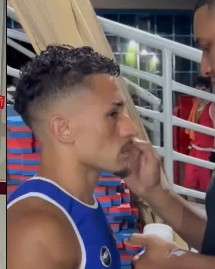
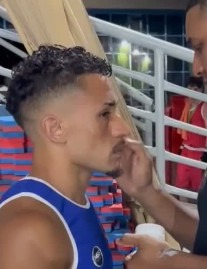
Perfil do atleta em card compacto com idade, categoria e Instagram

diff --git a/buffalo-site/index.html b/buffalo-site/index.html
@@ -64,12 +64,13 @@ a:focus-visible, button:focus-visible { outline: 2px solid var(--red-text); outl
 .brand { display: flex; align-items: center; gap: 12px; text-decoration: none; font-family: var(--font-display); font-size: 20px; letter-spacing: 1.5px; }
 .brand img { width: 48px; height: 48px; filter: grayscale(1); }
 .menu { display: flex; align-items: center; gap: 28px; font-size: 13px; font-weight: 700; letter-spacing: 1.5px; text-transform: uppercase; }
-.menu a { text-decoration: none; }
+.menu a { text-decoration: none; white-space: nowrap; }
+.brand { white-space: nowrap; }
 .menu a:not(.btn):hover { color: var(--red-text); }
 .menu .btn { min-height: 44px; padding: 0 18px; }
 .menu-toggle { display: none; background: none; border: 1px solid var(--paper); color: var(--paper); min-height: 44px; padding: 0 14px; font: 700 13px/1 var(--font-body); letter-spacing: 1.5px; text-transform: uppercase; cursor: pointer; }
 
-@media (max-width: 900px) {
+@media (max-width: 1100px) {
   .menu-toggle { display: inline-flex; align-items: center; }
   .menu { position: absolute; top: 100%; left: 0; right: 0; flex-direction: column; align-items: stretch; gap: 0; background: var(--ink); border-bottom: 1px solid var(--line); padding: 8px var(--gutter) 20px; }
   .menu a:not(.btn) { padding: 14px 0; border-bottom: 1px solid var(--line); }
@@ -182,10 +183,13 @@ a:focus-visible, button:focus-visible { outline: 2px solid var(--red-text); outl
 .slide-btn { width: 48px; height: 48px; display: inline-flex; align-items: center; justify-content: center; background: transparent; border: 1px solid currentColor; color: inherit; cursor: pointer; }
 .slide-btn:hover { background: var(--red); border-color: var(--red); color: #FFFFFF; }
 .slide-nav { display: flex; justify-content: flex-end; gap: 10px; margin-top: 28px; }
-.slide-nav.country-nav { display: none; }
+.dots { display: none; justify-content: center; gap: 4px; margin-top: 20px; }
+.dots button { width: 24px; height: 24px; padding: 0; border: 0; background: transparent; cursor: pointer; display: flex; align-items: center; justify-content: center; }
+.dots button::before { content: ""; width: 6px; height: 6px; border-radius: 3px; background: rgba(244,243,241,0.3); transition: width .3s, background .3s; }
+.dots button[aria-current="true"]::before { width: 20px; background: var(--paper); }
 @media (max-width: 700px) {
-  .slide-nav { justify-content: center; }
-  .slide-nav.country-nav { display: flex; }
+  .slide-nav { display: none; }
+  .dots { display: flex; }
   .coach-nav { left: var(--gutter); right: auto; }
 }
 .coach-photo { flex: 1 1 480px; min-height: clamp(420px, 72vh, 680px); position: relative; overflow: hidden; background: #CFCCC8; }
@@ -257,20 +261,28 @@ html:has(dialog[open]) { overflow: hidden; }
   .modal-prev { left: calc(50% - 58px); }
   .modal-next { right: calc(50% - 58px); }
 }
-.athlete-panel { width: min(880px, calc(100% - 32px)); max-height: calc(100% - 112px); overflow: auto; display: grid; grid-template-columns: minmax(0, 1fr) minmax(0, 1.1fr); background: var(--ink-2); border: 1px solid var(--line); }
-.ap-photo { position: relative; overflow: hidden; background: var(--ink); aspect-ratio: 4 / 5; container-type: size; }
-.ap-video { position: absolute; top: 50%; left: 50%; width: max(100cqw, 56.25cqh); height: max(100cqh, 177.78cqw); transform: translate(-50%, -50%); border: 0; filter: grayscale(1) contrast(1.1); pointer-events: none; }
-.ap-photo img { position: absolute; inset: 0; width: 100%; height: 100%; object-fit: cover; }
-.ap-body { padding: clamp(24px, 4vw, 44px); display: flex; flex-direction: column; justify-content: center; gap: 10px; min-width: 0; }
-.ap-body h3 { margin: 0; font-family: var(--font-display); font-weight: 400; font-size: clamp(40px, 5vw, 64px); line-height: 0.95; text-transform: uppercase; }
-.ap-body .cat { font-size: 15px; color: var(--muted); }
-.ap-titles { list-style: none; margin: 8px 0 0; padding: 0; display: flex; flex-direction: column; gap: 6px; }
+.athlete-panel { position: relative; width: min(460px, calc(100% - 32px)); max-height: calc(100% - 32px); overflow: auto; padding: 28px; display: flex; flex-direction: column; gap: 20px; background: var(--ink-2); border: 1px solid var(--line); }
+#athleteModal .modal-prev, #athleteModal .modal-next { display: none; }
+#athleteModal .modal-close { position: absolute; top: 10px; right: 10px; width: 40px; height: 40px; background: transparent; border-color: transparent; }
+#athleteModal .modal-close:hover { background: var(--red); }
+.ap-head { display: flex; align-items: center; gap: 18px; padding-right: 32px; }
+.ap-avatar { flex: none; width: 88px; height: 88px; border-radius: 50%; object-fit: cover; object-position: 50% 20%; border: 2px solid var(--line); filter: grayscale(1) contrast(1.1); }
+.ap-head h3 { margin: 0; min-width: 0; font-family: var(--font-display); font-weight: 400; font-size: clamp(26px, 7vw, 34px); line-height: 1; text-transform: uppercase; overflow-wrap: anywhere; }
+@media (max-width: 480px) { .athlete-panel { padding: 22px 20px; } .ap-avatar { width: 72px; height: 72px; } }
+.ap-facts { display: grid; grid-template-columns: repeat(3, minmax(0, 1fr)); margin: 0; border-top: 1px solid var(--line); border-bottom: 1px solid var(--line); }
+.ap-facts div { padding: 12px 0; min-width: 0; }
+.ap-facts div + div { border-left: 1px solid var(--line); padding-left: 14px; }
+.ap-facts dt { font-size: 11px; letter-spacing: 1.5px; text-transform: uppercase; color: var(--muted); }
+.ap-facts dd { margin: 4px 0 0; font-size: 15px; font-weight: 700; color: var(--paper); }
+.ap-titles { list-style: none; margin: 0; padding: 0; display: flex; flex-direction: column; gap: 8px; }
 .ap-titles li { display: flex; align-items: center; gap: 12px; font-size: 15px; font-weight: 700; color: var(--paper); }
-.ap-body .btn { margin-top: 18px; align-self: flex-start; }
-@media (max-width: 700px) {
-  .athlete-panel { grid-template-columns: minmax(0, 1fr); max-height: calc(100% - 176px); margin-bottom: 56px; }
-  .ap-photo { aspect-ratio: 4 / 3; }
-}
+.athlete-panel .record { margin-top: 0; }
+.athlete-panel .btn { width: 100%; }
+.athlete-panel .dots { display: flex; margin: -4px 0 0; }
+.athlete-panel.swap-next { animation: swap-next .3s ease-out; }
+.athlete-panel.swap-prev { animation: swap-prev .3s ease-out; }
+@keyframes swap-next { from { opacity: 0; transform: translateX(24px); } }
+@keyframes swap-prev { from { opacity: 0; transform: translateX(-24px); } }
 .lightbox-figure { margin: 0; display: flex; flex-direction: column; align-items: center; gap: 14px; max-width: calc(100% - 32px); }
 .lightbox-figure img { display: block; max-width: min(100%, 680px); max-height: calc(100dvh - 190px); width: auto; height: auto; object-fit: contain; }
 .lightbox-figure figcaption { font-size: 14px; color: var(--soft); text-align: center; }
@@ -372,10 +384,7 @@ html:has(dialog[open]) { overflow: hidden; }
           <div class="legends"><strong>Carlos Monzón</strong><span>Campeão mundial dos médios de 1970 a 1977, com 14 defesas.</span></div>
         </article>
       </div>
-      <div class="slide-nav country-nav">
-        <button class="slide-btn" id="countryPrev" type="button" aria-label="País anterior"><svg viewBox="0 0 24 24" width="20" height="20" aria-hidden="true"><path d="M15 5l-7 7 7 7" fill="none" stroke="currentColor" stroke-width="2"/></svg></button>
-        <button class="slide-btn" id="countryNext" type="button" aria-label="Próximo país"><svg viewBox="0 0 24 24" width="20" height="20" aria-hidden="true"><path d="M9 5l7 7-7 7" fill="none" stroke="currentColor" stroke-width="2"/></svg></button>
-      </div>
+      <div class="dots" id="countryDots"></div>
     </div>
   </section>
 
@@ -416,6 +425,7 @@ html:has(dialog[open]) { overflow: hidden; }
         <p class="lead">Quem representa o Buffalo no ringue. Cartel em lutas oficiais: vitórias, derrotas e empates.</p>
       </div>
       <div class="athlete-track" id="athleteGrid"></div>
+      <div class="dots" id="athleteDots"></div>
       <div class="slide-nav">
         <button class="slide-btn" id="athletePrev" type="button" aria-label="Atleta anterior"><svg viewBox="0 0 24 24" width="20" height="20" aria-hidden="true"><path d="M15 5l-7 7 7 7" fill="none" stroke="currentColor" stroke-width="2"/></svg></button>
         <button class="slide-btn" id="athleteNext" type="button" aria-label="Próximo atleta"><svg viewBox="0 0 24 24" width="20" height="20" aria-hidden="true"><path d="M9 5l7 7-7 7" fill="none" stroke="currentColor" stroke-width="2"/></svg></button>
@@ -489,18 +499,19 @@ html:has(dialog[open]) { overflow: hidden; }
 </footer>
 
 <dialog class="modal" id="athleteModal" aria-label="Perfil do atleta">
-  <button class="slide-btn modal-close" type="button" data-close aria-label="Fechar"><svg viewBox="0 0 24 24" width="20" height="20" aria-hidden="true"><path d="M6 6l12 12M18 6L6 18" fill="none" stroke="currentColor" stroke-width="2"/></svg></button>
   <button class="slide-btn modal-prev" id="apPrev" type="button" aria-label="Atleta anterior"><svg viewBox="0 0 24 24" width="20" height="20" aria-hidden="true"><path d="M15 5l-7 7 7 7" fill="none" stroke="currentColor" stroke-width="2"/></svg></button>
   <button class="slide-btn modal-next" id="apNext" type="button" aria-label="Próximo atleta"><svg viewBox="0 0 24 24" width="20" height="20" aria-hidden="true"><path d="M9 5l7 7-7 7" fill="none" stroke="currentColor" stroke-width="2"/></svg></button>
   <div class="athlete-panel">
-    <div class="ap-photo"><img id="apPhoto" alt=""></div>
-    <div class="ap-body">
+    <button class="slide-btn modal-close" type="button" data-close aria-label="Fechar"><svg viewBox="0 0 24 24" width="20" height="20" aria-hidden="true"><path d="M6 6l12 12M18 6L6 18" fill="none" stroke="currentColor" stroke-width="2"/></svg></button>
+    <div class="ap-head">
+      <img class="ap-avatar" id="apPhoto" alt="">
       <h3 id="apName"></h3>
-      <span class="cat" id="apCat"></span>
-      <ul class="ap-titles" id="apTitles"></ul>
-      <div class="record" id="apRecord" aria-label="Cartel"></div>
-      <a class="btn btn-red" id="apInsta" target="_blank" rel="noopener"><svg viewBox="0 0 24 24" width="18" height="18" aria-hidden="true" fill="none" stroke="currentColor" stroke-width="2"><rect x="3" y="3" width="18" height="18" rx="5"/><circle cx="12" cy="12" r="4"/><circle cx="17.5" cy="6.5" r="0.8" fill="currentColor"/></svg>Ver no Instagram</a>
     </div>
+    <dl class="ap-facts" id="apFacts"></dl>
+    <ul class="ap-titles" id="apTitles"></ul>
+    <div class="record" id="apRecord" aria-label="Cartel"></div>
+    <a class="btn btn-red" id="apInsta" target="_blank" rel="noopener"><svg viewBox="0 0 24 24" width="18" height="18" aria-hidden="true" fill="none" stroke="currentColor" stroke-width="2"><rect x="3" y="3" width="18" height="18" rx="5"/><circle cx="12" cy="12" r="4"/><circle cx="17.5" cy="6.5" r="0.8" fill="currentColor"/></svg>Ver no Instagram</a>
+    <div class="dots" id="apDots"></div>
   </div>
 </dialog>
 
@@ -551,16 +562,16 @@ html:has(dialog[open]) { overflow: hidden; }
   const tickerHtml = TICKER.map((id) => `<span class="ticker-item"><span class="flag">${flagSvg(id)}</span>${FLAGS[id].name}</span>`).join('');
   track.innerHTML = tickerHtml + tickerHtml.replace(/class="ticker-item"/g, 'class="ticker-item" aria-hidden="true"');
 
-  // Atletas: títulos reais; categorias e cartéis fictícios para o protótipo.
+  // Atletas: títulos reais; idades, categorias e cartéis fictícios para o protótipo.
   const ATLETAS = [
-    { nome: 'Cristopher Prade', categoria: 'Elite · Pesado (até 92 kg)', cartel: { v: 12, d: 3, e: 0 }, foto: 'img/atleta-cris.jpg', titulos: [{ texto: 'Campeão Gaúcho 2022', curto: 'Campeão Gaúcho 2022', medalha: 'ouro' }, { texto: 'Campeão do Cinturão Vinicio Guariglia 2022', curto: 'Cinturão V. Guariglia 2022', medalha: 'ouro' }], instagram: 'cristopher_prade' },
-    { nome: 'Peterson Conceição', categoria: 'Elite · Médio (até 75 kg)', cartel: { v: 9, d: 2, e: 0 }, foto: 'img/luta.jpg', titulos: [{ texto: 'Seleção Gaúcha de Boxe', curto: 'Seleção Gaúcha', medalha: 'selecao' }, { texto: 'Bronze no Campeonato Brasileiro', curto: 'Bronze Brasileiro', medalha: 'bronze' }, { texto: 'Duas vezes prata no Campeonato Gaúcho', curto: '2× Prata Gaúcho', medalha: 'prata' }], instagram: null },
-    { nome: 'Cristiano Gonçalves', categoria: 'Elite · Leve (até 60 kg)', cartel: { v: 7, d: 3, e: 0 }, foto: 'img/atleta-cristiano.jpg', titulos: [{ texto: 'Vice-campeão Gaúcho 2026', curto: 'Vice-campeão Gaúcho 2026', medalha: 'prata' }], instagram: null },
-    { nome: 'Bernardo AVM', categoria: 'Elite · Super-leve (até 63,5 kg)', cartel: { v: 6, d: 1, e: 0 }, foto: 'img/atleta-bernardo.jpg', instagram: 'bernardo.avm' },
-    { nome: 'Bruno Gravy', categoria: 'Elite · Leve (até 60 kg)', cartel: { v: 4, d: 2, e: 0 }, foto: 'img/atleta-bruno.jpg', instagram: 'bruno.gravy' },
-    { nome: 'Junior de Morais', categoria: 'Elite · Meio-médio (até 67 kg)', cartel: { v: 4, d: 1, e: 1 }, foto: 'img/atleta-junior.jpg', instagram: null },
-    { nome: 'Daigo Kubo', categoria: 'Infantil · até 40 kg', cartel: { v: 2, d: 1, e: 0 }, foto: 'img/atleta-daigo.jpg', instagram: null },
-    { nome: 'Deivid Christoffer', categoria: 'Juvenil · até 57 kg', cartel: { v: 5, d: 2, e: 0 }, foto: 'img/atleta-deivid.jpg', instagram: null }
+    { nome: 'Cristopher Prade', idade: 31, categoria: 'Elite · Pesado (até 92 kg)', cartel: { v: 12, d: 3, e: 0 }, foto: 'img/atleta-cris.jpg', titulos: [{ texto: 'Campeão Gaúcho 2022', curto: 'Campeão Gaúcho 2022', medalha: 'ouro' }, { texto: 'Campeão do Cinturão Vinicio Guariglia 2022', curto: 'Cinturão V. Guariglia 2022', medalha: 'ouro' }], instagram: 'cristopher_prade' },
+    { nome: 'Peterson Conceição', idade: 24, categoria: 'Elite · Médio (até 75 kg)', cartel: { v: 9, d: 2, e: 0 }, foto: 'img/luta.jpg', titulos: [{ texto: 'Seleção Gaúcha de Boxe', curto: 'Seleção Gaúcha', medalha: 'selecao' }, { texto: 'Bronze no Campeonato Brasileiro', curto: 'Bronze Brasileiro', medalha: 'bronze' }, { texto: 'Duas vezes prata no Campeonato Gaúcho', curto: '2× Prata Gaúcho', medalha: 'prata' }], instagram: '051pe_terson' },
+    { nome: 'Cristiano Gonçalves', idade: 22, categoria: 'Elite · Leve (até 60 kg)', cartel: { v: 7, d: 3, e: 0 }, foto: 'img/atleta-cristiano.jpg', titulos: [{ texto: 'Vice-campeão Gaúcho 2026', curto: 'Vice-campeão Gaúcho 2026', medalha: 'prata' }], instagram: 'cristiano.goncalves.5243' },
+    { nome: 'Bernardo AVM', idade: 25, categoria: 'Elite · Super-leve (até 63,5 kg)', cartel: { v: 6, d: 1, e: 0 }, foto: 'img/atleta-bernardo.jpg', instagram: 'bernardo.avm' },
+    { nome: 'Bruno Gravy', idade: 23, categoria: 'Elite · Leve (até 60 kg)', cartel: { v: 4, d: 2, e: 0 }, foto: 'img/atleta-bruno.jpg', instagram: 'bruno.gravy' },
+    { nome: 'Junior de Morais', idade: 27, categoria: 'Elite · Meio-médio (até 67 kg)', cartel: { v: 4, d: 1, e: 1 }, foto: 'img/atleta-junior.jpg', instagram: null },
+    { nome: 'Daigo Kubo', idade: 12, categoria: 'Infantil · até 40 kg', cartel: { v: 2, d: 1, e: 0 }, foto: 'img/atleta-daigo.jpg', instagram: null },
+    { nome: 'Deivid Christoffer', idade: 16, categoria: 'Juvenil · até 57 kg', cartel: { v: 5, d: 2, e: 0 }, foto: 'img/atleta-deivid.jpg', instagram: null }
   ];
   const num = (v) => (v === null || v === undefined ? '—' : v);
   const recordHtml = (c = {}) => `
@@ -585,11 +596,13 @@ html:has(dialog[open]) { overflow: hidden; }
   // Modais
   function swipe(el, onSwipe) {
     let startX = null;
-    el.addEventListener('touchstart', (e) => { startX = e.touches[0].clientX; }, { passive: true });
+    let startY = null;
+    el.addEventListener('touchstart', (e) => { startX = e.touches[0].clientX; startY = e.touches[0].clientY; }, { passive: true });
     el.addEventListener('touchend', (e) => {
       if (startX === null) return;
       const dx = e.changedTouches[0].clientX - startX;
-      if (Math.abs(dx) > 50) onSwipe(dx < 0 ? 1 : -1);
+      const dy = e.changedTouches[0].clientY - startY;
+      if (Math.abs(dx) > 50 && Math.abs(dx) > Math.abs(dy) * 1.5) onSwipe(dx < 0 ? 1 : -1);
       startX = null;
     }, { passive: true });
   }
@@ -601,32 +614,33 @@ html:has(dialog[open]) { overflow: hidden; }
   });
 
   const athleteModal = document.getElementById('athleteModal');
-  const apPhotoBox = document.querySelector('.ap-photo');
   let apIndex = 0;
 
-  function setVideo(id) {
-    const current = apPhotoBox.querySelector('.ap-video');
-    if (current) current.remove();
-    if (!id) return;
-    const frame = document.createElement('iframe');
-    frame.className = 'ap-video';
-    frame.title = 'Vídeo do atleta';
-    frame.allow = 'autoplay; encrypted-media; picture-in-picture';
-    frame.referrerPolicy = 'strict-origin-when-cross-origin';
-    const origin = location.protocol.startsWith('http') ? `&origin=${encodeURIComponent(location.origin)}` : '';
-    frame.src = `https://www.youtube.com/embed/${id}?autoplay=1&mute=1&loop=1&playlist=${id}&controls=0&playsinline=1&rel=0${origin}`;
-    apPhotoBox.appendChild(frame);
-  }
-  athleteModal.addEventListener('close', () => setVideo(null));
+  const apPanel = athleteModal.querySelector('.athlete-panel');
+  const apDots = document.getElementById('apDots');
+  apDots.innerHTML = ATLETAS.map((a, i) => `<button type="button" aria-label="${a.nome}"></button>`).join('');
+  [...apDots.children].forEach((dot, i) => dot.addEventListener('click', () => openAthlete(i)));
   function openAthlete(i) {
+    const dir = i > apIndex ? 'swap-next' : 'swap-prev';
     apIndex = (i + ATLETAS.length) % ATLETAS.length;
+    [...apDots.children].forEach((dot, k) => dot.setAttribute('aria-current', String(k === apIndex)));
+    if (athleteModal.open) {
+      apPanel.classList.remove('swap-next', 'swap-prev');
+      void apPanel.offsetWidth;
+      apPanel.classList.add(dir);
+      apPanel.scrollTop = 0;
+    }
     const a = ATLETAS[apIndex];
     const photo = document.getElementById('apPhoto');
     photo.src = a.foto || 'img/logo.png';
     photo.alt = a.nome;
-    setVideo(a.video);
+    const [nivel, peso] = a.categoria.split(' · ');
+    document.getElementById('apFacts').innerHTML = [
+      ['Idade', a.idade ? `${a.idade} anos` : '—'],
+      ['Nível', nivel],
+      ['Categoria', (peso || '—').replace(/^.*\((.*)\)$/, '$1')]
+    ].map(([k, v]) => `<div><dt>${k}</dt><dd>${v}</dd></div>`).join('');
     document.getElementById('apName').textContent = a.nome;
-    document.getElementById('apCat').textContent = a.categoria;
     const titles = document.getElementById('apTitles');
     titles.innerHTML = (a.titulos || []).map((t) => `<li><i class="medal m-${t.medalha}"></i>${t.texto}</li>`).join('');
     titles.hidden = !(a.titulos && a.titulos.length);
@@ -718,6 +732,20 @@ html:has(dialog[open]) { overflow: hidden; }
     }, interval);
   }
 
+  function dots(track, box) {
+    const items = [...track.children];
+    box.innerHTML = items.map((_, i) => `<button type="button" aria-label="Ir para o item ${i + 1}"></button>`).join('');
+    const buttons = [...box.children];
+    const step = () => items[0].getBoundingClientRect().width + (parseFloat(getComputedStyle(track).columnGap) || 0);
+    buttons.forEach((b, i) => b.addEventListener('click', () => track.scrollTo({ left: i * step(), behavior })));
+    const update = () => {
+      const active = Math.round(track.scrollLeft / step());
+      buttons.forEach((b, i) => b.setAttribute('aria-current', String(i === active)));
+    };
+    track.addEventListener('scroll', update, { passive: true });
+    update();
+  }
+
   const coachTrack = document.getElementById('coachTrack');
   const coachCount = document.getElementById('coachCount');
   const pad = (n) => String(n).padStart(2, '0');
@@ -727,11 +755,13 @@ html:has(dialog[open]) { overflow: hidden; }
 
   const nextAthlete = slider(athleteGrid, document.getElementById('athletePrev'), document.getElementById('athleteNext'));
   autoplay(athleteGrid, document.getElementById('atletas'), nextAthlete, 4000);
+  dots(athleteGrid, document.getElementById('athleteDots'));
 
   // Países: no celular vira carrossel e o card visível mostra o lutador
   const countryTrack = document.getElementById('countryTrack');
   const mobile = window.matchMedia('(max-width: 700px)');
-  const nextCountry = slider(countryTrack, document.getElementById('countryPrev'), document.getElementById('countryNext'));
+  const nextCountry = slider(countryTrack, null, null);
+  dots(countryTrack, document.getElementById('countryDots'));
   autoplay(countryTrack, document.getElementById('escola'), nextCountry, 4000, () => mobile.matches);
   const activeObserver = new IntersectionObserver((entries) => {
     entries.forEach((entry) => entry.target.classList.toggle('is-active', entry.intersectionRatio >= 0.6));
@@ -748,7 +778,7 @@ html:has(dialog[open]) { overflow: hidden; }
     toggle.textContent = open ? 'Fechar' : 'Menu';
   });
   menu.addEventListener('click', (e) => {
-    if (e.target.closest('a') && window.matchMedia('(max-width: 900px)').matches) {
+    if (e.target.closest('a') && window.matchMedia('(max-width: 1100px)').matches) {
       menu.dataset.open = 'false';
       toggle.setAttribute('aria-expanded', 'false');
       toggle.textContent = 'Menu';
